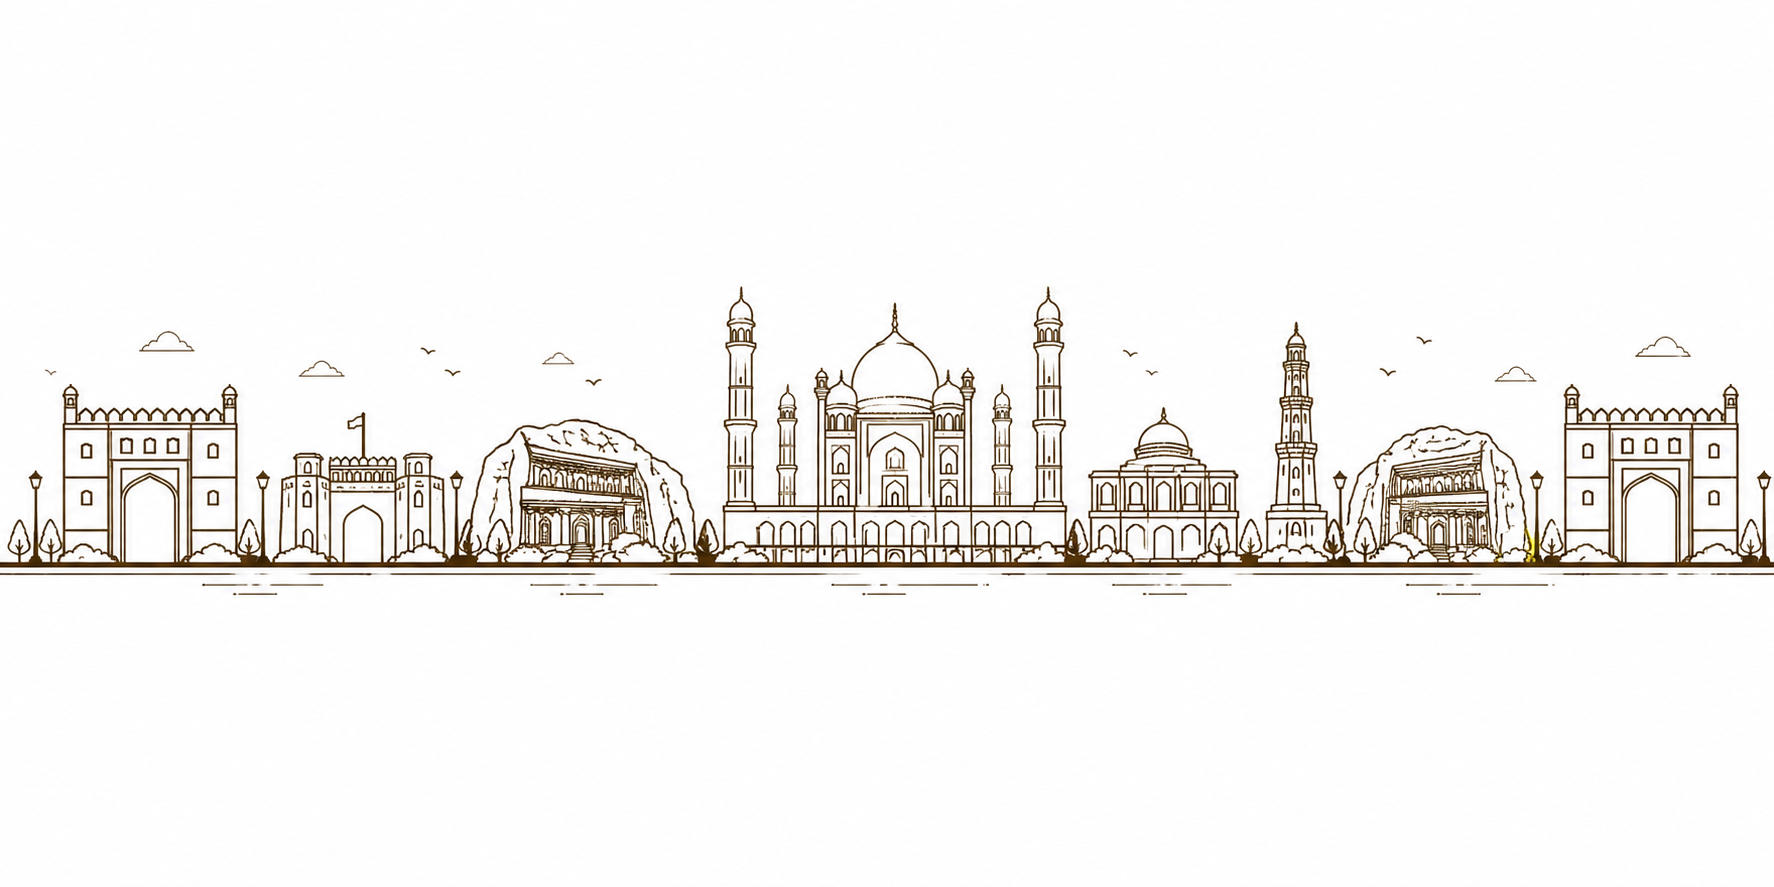
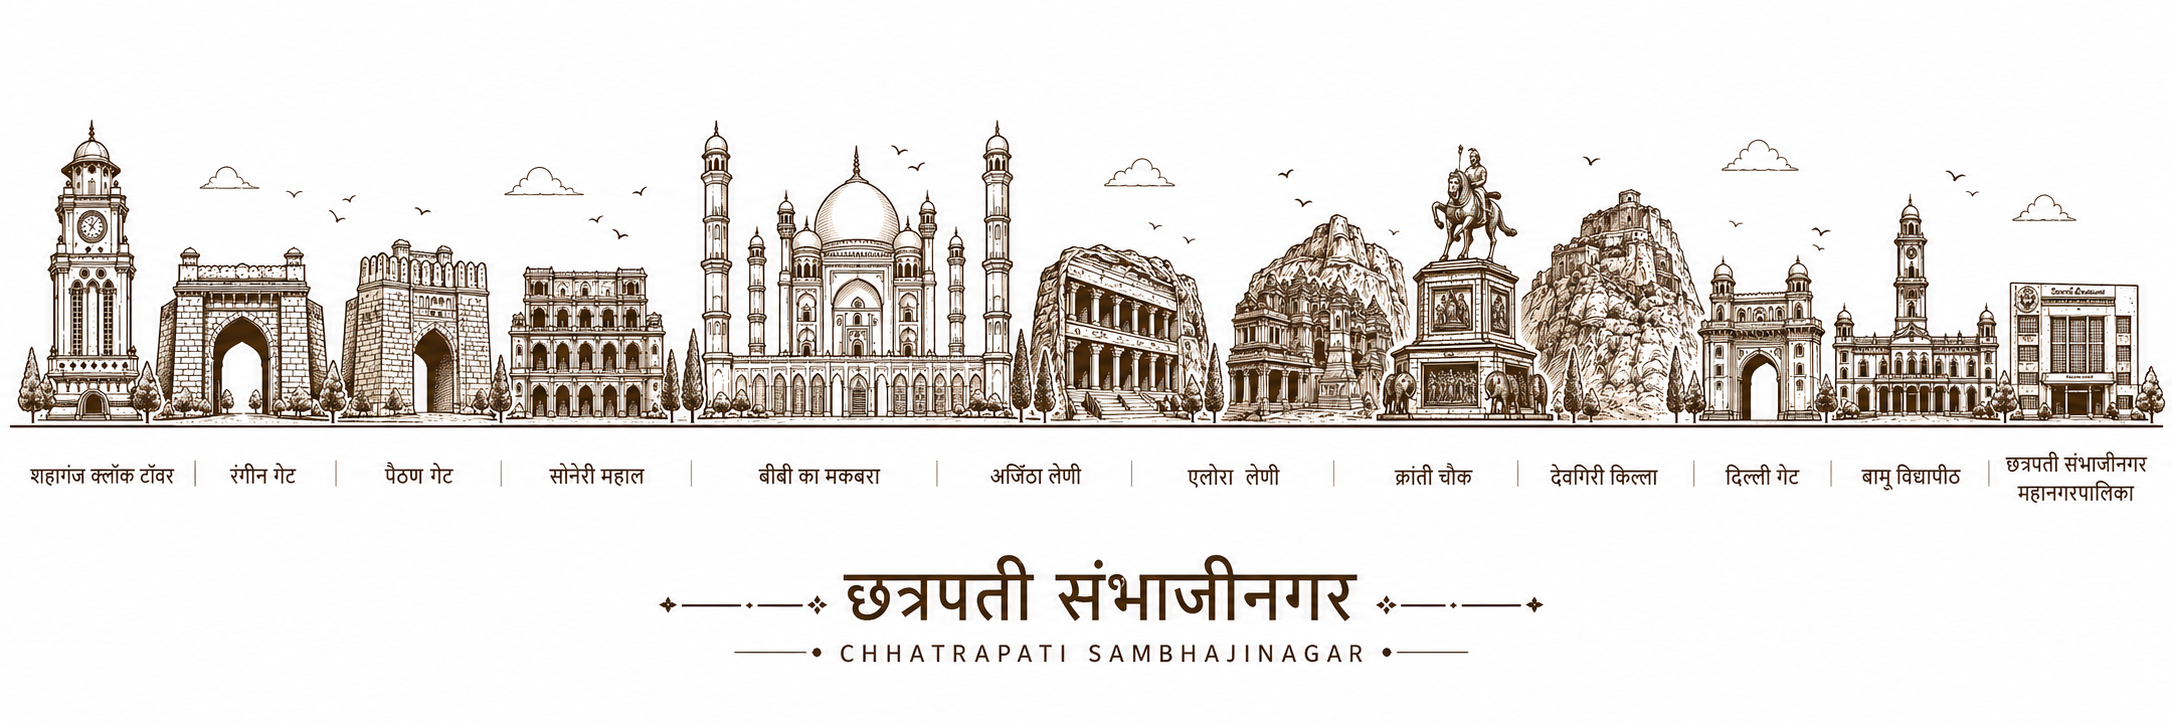
f

diff --git a/src/components/site/CitySkyline.tsx b/src/components/site/CitySkyline.tsx
@@ -2,19 +2,41 @@ import skylineImg from "@/assets/skyline.png";
 
 export const CitySkyline = () => {
   return (
-    <div className="w-full overflow-hidden relative pointer-events-none select-none bg-white" style={{ height: "140px" }}>
+    <div
+      className="w-full overflow-hidden relative pointer-events-none select-none"
+      style={{ height: "130px", backgroundColor: "#fff" }}
+    >
+      {/* Two identical strips side by side — animate moves left by 50%, then resets */}
       <div
-        className="flex absolute top-0 left-0 h-full animate-marquee-slow"
-        style={{ width: "max-content" }}
+        style={{
+          display: "flex",
+          width: "200%",
+          height: "100%",
+          animation: "skyline-scroll 30s linear infinite",
+        }}
       >
-        {[...Array(6)].map((_, i) => (
-          <img
-            key={i}
-            src={skylineImg}
-            alt=""
-            className="h-full w-auto object-contain shrink-0"
-          />
-        ))}
+        <div
+          style={{
+            width: "50%",
+            height: "100%",
+            backgroundImage: `url(${skylineImg})`,
+            backgroundRepeat: "repeat-x",
+            backgroundSize: "auto 100%",
+            backgroundPosition: "bottom left",
+            flexShrink: 0,
+          }}
+        />
+        <div
+          style={{
+            width: "50%",
+            height: "100%",
+            backgroundImage: `url(${skylineImg})`,
+            backgroundRepeat: "repeat-x",
+            backgroundSize: "auto 100%",
+            backgroundPosition: "bottom left",
+            flexShrink: 0,
+          }}
+        />
       </div>
     </div>
   );

diff --git a/src/pages/Index.tsx b/src/pages/Index.tsx
@@ -1,6 +1,6 @@
 import { HomeLayout } from "@/components/site/Layout";
 import { useLang } from "@/i18n/LanguageContext";
-import { ArrowRight, Calendar, Landmark, MapPin, Phone, Mail, Facebook, Twitter, Instagram, Youtube } from "lucide-react";
+import { ArrowRight, Landmark, Receipt, Droplets, Baby, ScrollText, Store, Building2, MessageSquareWarning, FileSearch, MapPin, LayoutGrid } from "lucide-react";
 import { Link } from "react-router-dom";
 import { Button } from "@/components/ui/button";
 import { useEffect, useRef, useState } from "react";
@@ -15,17 +15,22 @@ import sameerImg from "@/assets/leadership/samir-bhaiya-rajurkar.png";
 import rajuImg from "@/assets/leadership/raju-bhaiya-janjal1.png";
 import amolImg from "@/assets/leadership/shri_amol_sir.png";
 
+// Icons mapped to each quick service in order:
+// Property Tax, Pay Water Tax, Birth Certificate, Death Certificate,
+// Trade License, Building Permission, Grievance, Tenders,
+// Know Application Status, Gunthewari Challan, All Services
 const icons = [
-  Landmark,
-  MapPin,
-  Phone,
-  Mail,
-  Calendar,
-  ArrowRight,
-  Facebook,
-  Twitter,
-  Instagram,
-  Youtube,
+  Receipt,           // Property Tax
+  Droplets,          // Pay Water Tax
+  Baby,              // Birth Certificate
+  ScrollText,        // Death Certificate
+  Store,             // Trade License
+  Building2,         // Building Permission
+  MessageSquareWarning, // Grievance
+  Landmark,          // Tenders
+  FileSearch,        // Know Application Status
+  MapPin,            // Gunthewari Challan
+  LayoutGrid,        // All Services
 ];
 
 const SocialMediaSection = () => {

diff --git a/src/index.css b/src/index.css
@@ -128,12 +128,13 @@ All colors MUST be HSL.
 
   body {
     @apply bg-background text-foreground;
-    font-family: 'Noto Sans Devanagari', 'Inter', system-ui, -apple-system, sans-serif;
+    font-family: 'Noto Serif Devanagari', 'Noto Sans Devanagari', 'Inter', system-ui, sans-serif;
+    letter-spacing: 0;
   }
 
   h1, h2, h3, h4, h5 {
-    font-family: 'Noto Sans Devanagari', 'Playfair Display', 'Georgia', serif;
-    @apply tracking-tight;
+    font-family: 'Noto Serif Devanagari', 'Playfair Display', 'Georgia', serif;
+    letter-spacing: 0;
   }
 }
 
@@ -153,6 +154,23 @@ All colors MUST be HSL.
     animation: marquee 35s linear infinite;
     padding-left: 100%;
   }
+}
+
+/* ── Devanagari: zero letter-spacing always ─────────────────────────────────
+   Tailwind tracking-* utilities break Devanagari conjuncts (matras detach).
+   This unicode-range rule overrides any tracking class for Devanagari glyphs. */
+
+/* Nuclear option: override tracking for ALL text since this is a bilingual site.
+   Placed in @layer utilities so it wins over all Tailwind tracking-* classes. */
+@layer utilities {
+  * {
+    letter-spacing: 0 !important;
+  }
+}
+
+@keyframes skyline-scroll {
+  from { transform: translateX(0); }
+  to   { transform: translateX(-50%); }
 }
 
 @keyframes marquee {

diff --git a/index.html b/index.html
@@ -22,7 +22,7 @@
 
     <link rel="preconnect" href="https://fonts.googleapis.com" />
     <link rel="preconnect" href="https://fonts.gstatic.com" crossorigin />
-    <link href="https://fonts.googleapis.com/css2?family=Playfair+Display:wght@500;600;700;800&family=Inter:wght@400;500;600;700&family=Noto+Sans+Devanagari:wght@400;500;600;700;800&display=swap" rel="stylesheet" />
+    <link href="https://fonts.googleapis.com/css2?family=Playfair+Display:wght@500;600;700;800&family=Inter:wght@400;500;600;700&family=Noto+Serif+Devanagari:wght@400;500;600;700;800&family=Noto+Sans+Devanagari:wght@400;500;600;700;800&display=swap" rel="stylesheet" />
 
     <meta property="og:title" content="Chh. Sambhajinagar Municipal Corporation" />
     <meta property="og:description" content="Official portal — citizen services, departments, tenders and notices." />